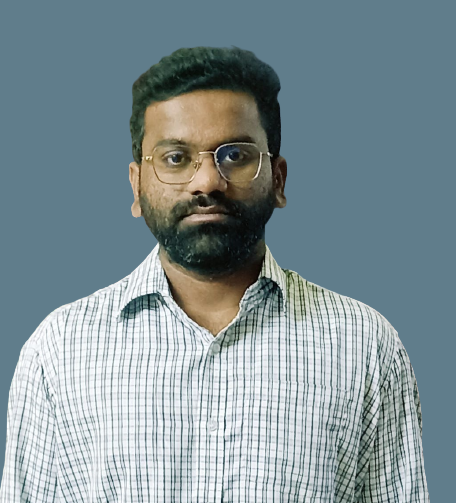
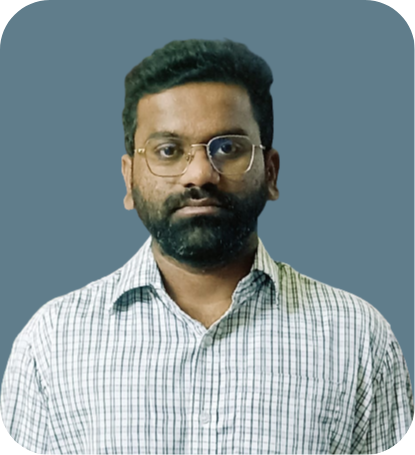
updated

diff --git a/src/index.html b/src/index.html
@@ -51,13 +51,12 @@
                 <a href="#contact" class="nav-link">Contact</a>
               </li>
               <li class="nav-item">
-                <a
-                  download
-                  href="./resume/fw19_0637-Sama-Sarun-Reddy-Resume.pdf"
-                  class="nav-link"
-                  target="_blank"
-                  >Resume</a
+                <button
+                  style="border: none; background-color: white; margin-top: 10%"
+                  onclick="downloadFileAndOpenURL()"
                 >
+                  Resume
+                </button>
               </li>
               <li>
                 <button id="theme">
@@ -126,10 +125,14 @@
               data-aos-duration="1500"
               data-aos-delay="2000"
             >
-              <div id="canvas"></div>
-
-              <div class="curtain">
+              <div id="canvas">
                 <img
+                  style="
+                    width: 100%;
+                    height: 100%;
+                    object-fit: contain;
+                    border-radius: 20px;
+                  "
                   src="./img/myProfilePic.png"
                   crossorigin=""
                   data-sampler="simplePlaneTexture"
@@ -168,21 +171,17 @@
               myself.
             </p>
             <p>
-              I build websites using HTML, CSS, JavaScript, and a other
-              frameworks and libraries. I spend most days learning and building
-              up, either start it from scratch or adding some customized
-              features and functionality for outdated websites to make them
-              shine again.
+              I build websites using HTML, CSS, JavaScript, and other frameworks
+              and libraries. I spend most days learning and building up, either
+              start it from scratch or adding some customized features and
+              functionality for outdated websites to make them shine again.
             </p>
-            <a
-              onMouseOver="this.style.color='teal'"
-              onMouseOut="this.style.color='black'"
-              download="fw19_0637-Sama-Sarun-Reddy-Resume"
-              href="./assets/pdf/fw19_0637-Sama-Sarun-Reddy-Resume.pdf"
-              class="nav-link"
-              target="_blank"
-              >Resume</a
+            <button
+              style="border: none; background-color: white"
+              onclick="downloadFileAndOpenURL()"
             >
+              Resume
+            </button>
           </section>
         </div>
       </div>
@@ -388,17 +387,25 @@
                 </p>
                 <h4>
                   Deployed :
-                  <a target="_blank" href="https://eve-india.netlify.app/"
-                    >https://eve-india.netlify.app/</a
+                  <a
+                    href="https://eve-india.netlify.app/"
+                    target="_blank"
+                    rel="noopener noreferrer"
+                    title="live demo"
                   >
+                    <i class="bi bi-eye-fill"></i>
+                  </a>
                 </h4>
                 <h4>
                   GitHub :
                   <a
+                    href="https://github.com/Rkarthik25/rooted-scale-5183"
                     target="_blank"
-                    href="https://github.com/Sarunnanimasai/Eve.com-Inspired-from-Apple.com-"
-                    >https://github.com/Sarunnanimasai/Eve.com-Inspired-from-Apple.com-</a
+                    rel="noopener noreferrer"
+                    title="source code"
                   >
+                    <i class="bi bi-github"></i>
+                  </a>
                 </h4>
                 <div>
                   <p>Tech Stack :</p>
@@ -538,17 +545,25 @@
                 </p>
                 <h4>
                   Deployed :
-                  <a target="_blank" href="https://buylance.netlify.app/"
-                    >https://buylance.netlify.app/</a
+                  <a
+                    href="https://buylance.netlify.app/"
+                    target="_blank"
+                    rel="noopener noreferrer"
+                    title="live demo"
                   >
+                    <i class="bi bi-eye-fill"></i>
+                  </a>
                 </h4>
                 <h4>
                   GitHub :
                   <a
+                    href="https://github.com/faizal-siddiqui/murky-rate-2238"
                     target="_blank"
-                    href="https://github.com/Sarunnanimasai/Buy_Lance-E-Commerce-"
-                    >https://github.com/Sarunnanimasai/Buy_Lance-E-Commerce-</a
+                    rel="noopener noreferrer"
+                    title="source code"
                   >
+                    <i class="bi bi-github"></i>
+                  </a>
                 </h4>
                 <div>
                   <p>Tech Stack :</p>
@@ -674,19 +689,26 @@
                 </p>
                 <h4>
                   Deployed :
+
                   <a
-                    target="_blank"
                     href="https://fascinating-syrniki-299085.netlify.app/"
-                    >https://fascinating-syrniki-299085.netlify.app/</a
+                    target="_blank"
+                    rel="noopener noreferrer"
+                    title="live demo"
                   >
+                    <i class="bi bi-eye-fill"></i>
+                  </a>
                 </h4>
                 <h4>
                   GitHub :
                   <a
+                    href="https://github.com/AnjuTewatia/abrupt-cough-2319"
                     target="_blank"
-                    href="https://github.com/Sarunnanimasai/Big-Basket-Clone-"
-                    >https://github.com/Sarunnanimasai/Big-Basket-Clone-</a
+                    rel="noopener noreferrer"
+                    title="source code"
                   >
+                    <i class="bi bi-github"></i>
+                  </a>
                 </h4>
                 <div>
                   <p>Tech Stack :</p>
@@ -790,17 +812,26 @@
                 </p>
                 <h4>
                   Deployed :
-                  <a target="_blank" href="https://shopcloned.netlify.app/"
-                    >https://shopcloned.netlify.app/</a
+
+                  <a
+                    href="https://strong-douhua-e2104c.netlify.app/"
+                    target="_blank"
+                    rel="noopener noreferrer"
+                    title="live demo"
                   >
+                    <i class="bi bi-eye-fill"></i>
+                  </a>
                 </h4>
                 <h4>
                   GitHub :
                   <a
+                    href="https://github.com/Sarunnanimasai/courageous-mitten-4791"
                     target="_blank"
-                    href="https://github.com/Sarunnanimasai/Shop.com-Clone-"
-                    >https://github.com/Sarunnanimasai/Shop.com-Clone-</a
+                    rel="noopener noreferrer"
+                    title="source code"
                   >
+                    <i class="bi bi-github"></i>
+                  </a>
                 </h4>
                 <div>
                   <p>Tech Stack :</p>
@@ -1024,5 +1055,25 @@
     <!-- ==== Dark/Light mode button === -->
 
     <script type="module" src="./js/main.js"></script>
+    <script>
+      function downloadFileAndOpenURL() {
+        var localFilePath = "./assets/fw19_0637-Sama-Sarun-Reddy-Resume.pdf";
+        var fileName = "fw19_0637-Sama-Sarun-Reddy-Resume.pdf";
+        var url =
+          "https://drive.google.com/file/d/1R-BOKsF4CsyLVUyb8PXpB6VpxEd6o2S-/view?usp=sharing";
+
+        // Download the local file
+        var link = document.createElement("a");
+        link.setAttribute("href", localFilePath);
+        link.setAttribute("download", fileName);
+        link.style.display = "none";
+        document.body.appendChild(link);
+        link.click();
+        document.body.removeChild(link);
+
+        // Open the URL
+        window.open(url);
+      }
+    </script>
   </body>
 </html>

diff --git a/vite.config.js b/vite.config.js
@@ -3,16 +3,11 @@ module.exports = {
   root: "src",
   build: {
     outDir: "../dist",
+    assetsInclude: ["**/*.pdf"],
   },
   resolve: {
     alias: {
       "@": path.join(__dirname, "src"),
     },
-  },
-  assets: {
-    // include all PDF files in the src/assets/pdf directory
-    include: "src/assets/pdf/**/*.pdf",
-    // set the output directory to dist/assets/pdf
-    outputDir: "assets/pdf",
   },
 };

diff --git a/src/sass/components/_hero.scss b/src/sass/components/_hero.scss
@@ -67,7 +67,6 @@
     canvas {
       width: 100%;
       height: 100%;
-      border-radius: 39% 61% 71% 29% / 38% 29% 71% 62%;
     }
 
     .curtain {
